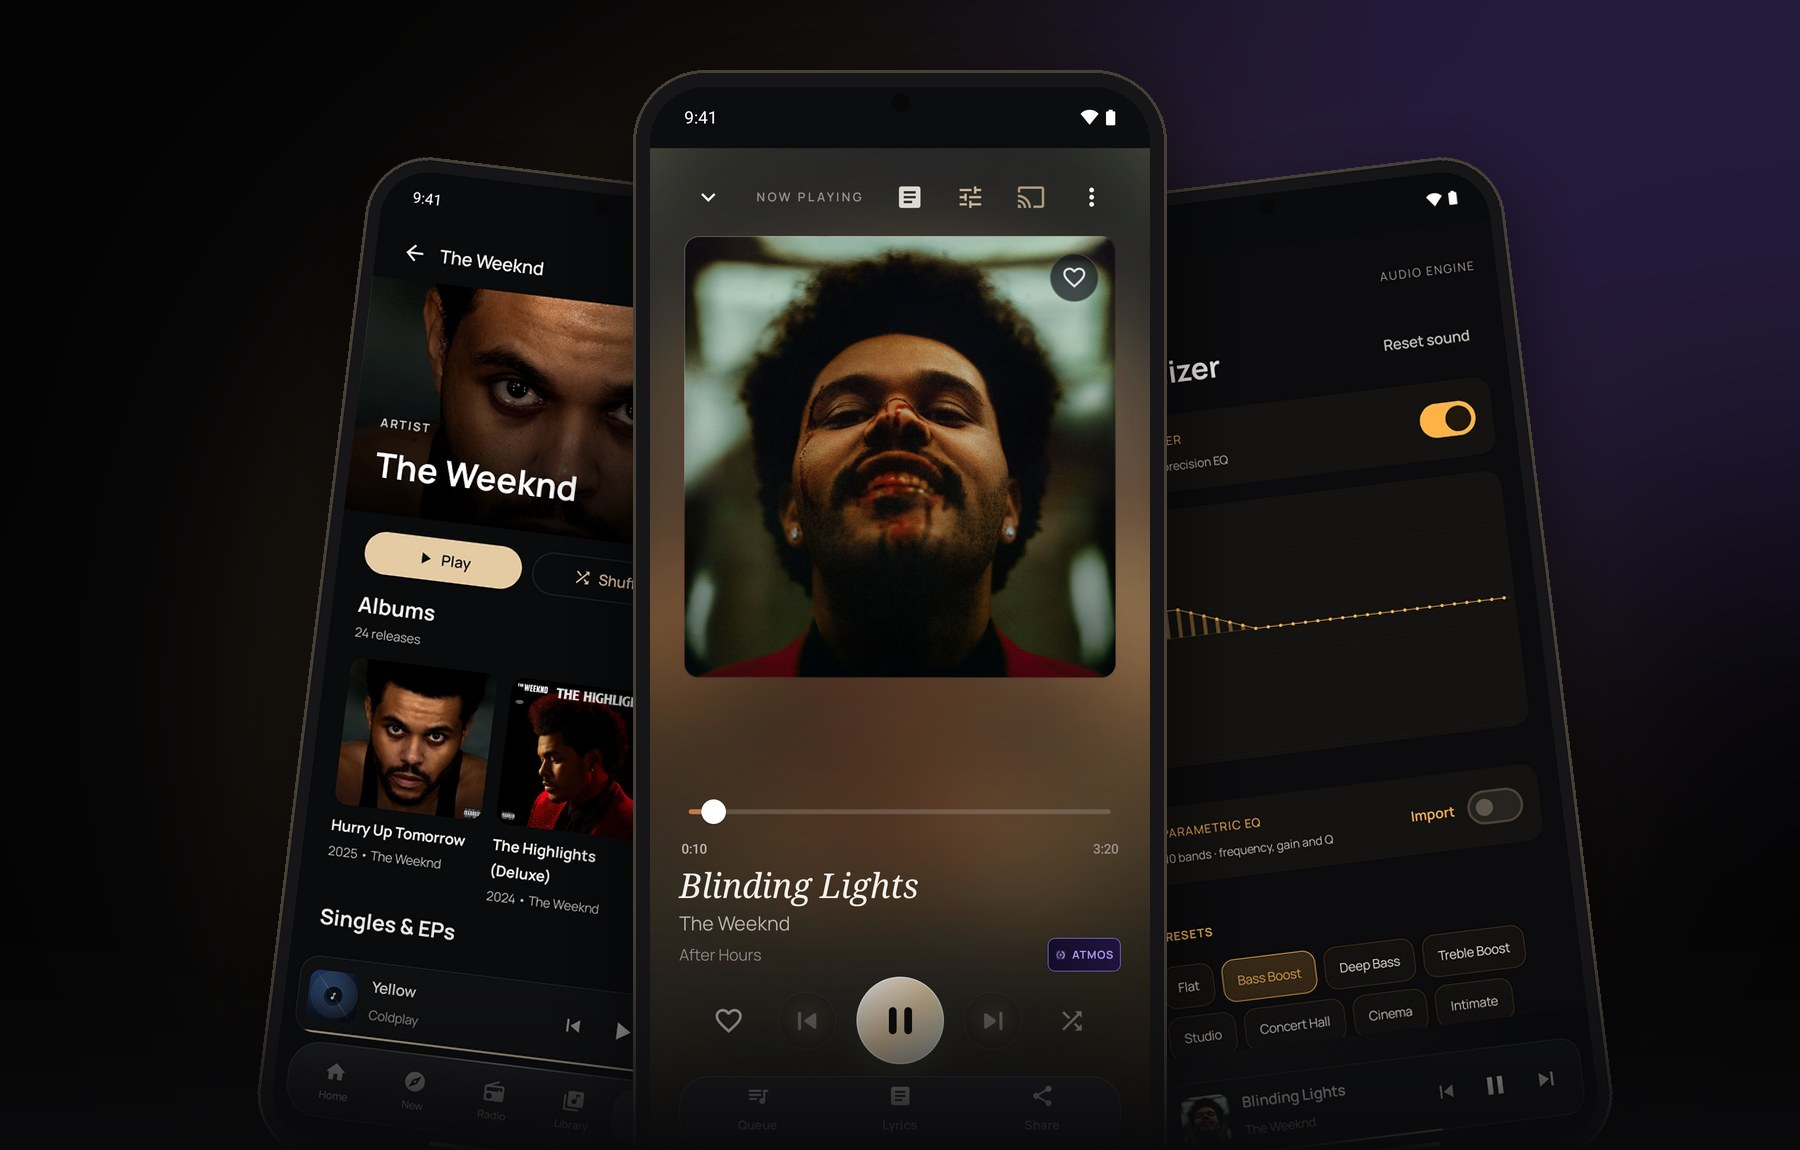
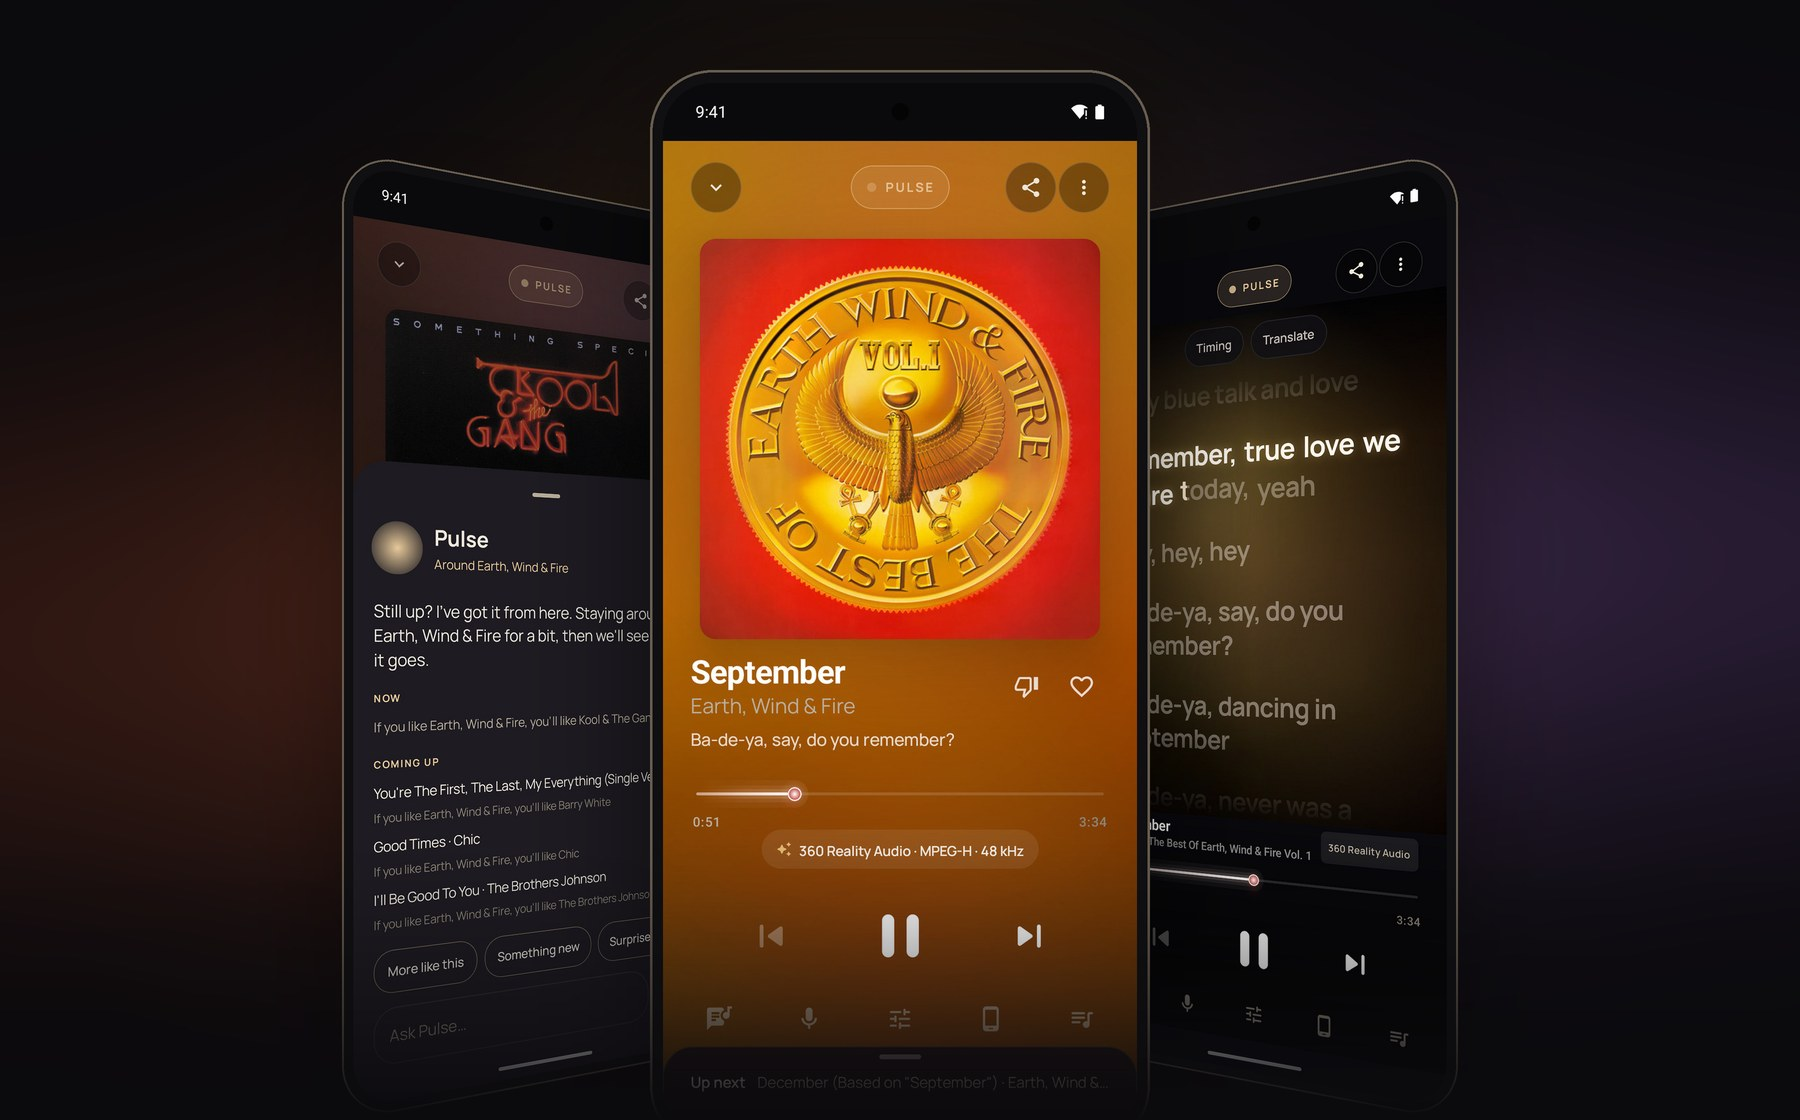
docs: new screenshots, players from every decade and the android tv app in the readme

diff --git a/README.md b/README.md
@@ -12,7 +12,7 @@
   <picture>
     <source media="(prefers-color-scheme: dark)" srcset="./assets/cta-dark.svg" />
     <source media="(prefers-color-scheme: light)" srcset="./assets/cta-light.svg" />
-    <img src="./assets/cta-dark.svg" width="100%" alt="The music player for people who care how it sounds. Get VANTA. Android 8.0 and up, phone, tablet and TV." />
+    <img src="./assets/cta-dark.svg" width="100%" alt="Lossless, Dolby Atmos, a live DJ, and players from every decade. Get VANTA. Android 8.0 and up, phone, tablet and TV." />
   </picture>
 </a>
 
@@ -20,9 +20,9 @@
 
 <br /><br />
 
-<img src="./assets/hero.jpg" width="100%" alt="VANTA on three phones: an artist page, Blinding Lights playing in Dolby Atmos, and the equalizer" />
+<img src="./assets/hero.jpg" width="100%" alt="VANTA on three phones: Pulse playing a set around Earth, Wind &amp; Fire, September playing in 360 Reality Audio, and its lyrics lighting up word by word" />
 
-<img src="./assets/stats.svg" width="100%" alt="24-bit lossless FLAC · Dolby Atmos and Sony 360 · 31-band EQ plus 10-band parametric · 147 radio genres · 0 ads or trackers" />
+<img src="./assets/stats.svg" width="100%" alt="24-bit lossless FLAC · Dolby Atmos and Sony 360 · 31-band EQ plus parametric · a live DJ that talks between songs · 0 ads or trackers" />
 
 <br />
 
@@ -35,7 +35,7 @@
 <a name="why-vanta"></a>
 <p align="center"><picture><source media="(prefers-color-scheme: dark)" srcset="./assets/h-why-dark.svg" /><source media="(prefers-color-scheme: light)" srcset="./assets/h-why-light.svg" /><img src="./assets/h-why-dark.svg" width="100%" alt="Why VANTA: made for listening" /></picture></p>
 
-<p align="center"><img src="./assets/features.svg" width="100%" alt="Hear all of it: lossless FLAC up to 24-bit, Dolby Atmos, Sony 360 Reality Audio and 5.1 / 7.1 surround. An EQ that does something: 31-band and 10-band parametric, with AutoEQ presets. Radio that stays on genre: 147 genres and subgenres, endless, learns from your thumbs. Bring your music, share it back: share a Spotify playlist in, and send friends links that open in VANTA." /></p>
+<p align="center"><img src="./assets/features.svg" width="100%" alt="A DJ that talks: Pulse plays a set around any artist, tells you why it picked each song, and talks between tracks in a voice that runs on your phone. Sing it yourself: turn the singer down, then out; lyrics light up word by word and translate on your phone. Hear all of it: lossless FLAC up to 24-bit, Dolby Atmos, Sony 360 Reality Audio and 5.1 / 7.1 surround. An EQ that does something: 31-band and 10-band parametric, with AutoEQ presets. Radio that stays on genre: 147 genres and subgenres, endless, learns from your thumbs. Bring your library: sign in to Spotify or Apple Music and pick your playlists and Liked Songs." /></p>
 
 <p align="center"><img src="./assets/no-ads.svg" width="100%" alt="No ads, no trackers, no subscription, just music" /></p>
 
@@ -44,7 +44,7 @@
 <a name="screenshots"></a>
 <p align="center"><picture><source media="(prefers-color-scheme: dark)" srcset="./assets/h-screens-dark.svg" /><source media="(prefers-color-scheme: light)" srcset="./assets/h-screens-light.svg" /><img src="./assets/h-screens-dark.svg" width="100%" alt="A look inside: every screen, built around the music" /></picture></p>
 
-<p align="center"><img src="./assets/gallery.png" width="100%" alt="Screenshots: Home, Artist pages, Now playing, Radio, New, 31-band EQ and Parametric EQ" /></p>
+<p align="center"><img src="./assets/gallery.jpg" width="100%" alt="Screenshots: Home, Search, Radio, Now playing, lyrics lit up word by word, Pulse, song credits and the 31-band equalizer" /></p>
 
 <br />
 
@@ -55,7 +55,13 @@
 
 <p align="center"><img src="./assets/widgets.png" width="100%" alt="VANTA widgets playing The Weeknd: a pocket player with a click wheel in silver, black, black with a red wheel, and white; a 1960s reel-to-reel deck; a 1970s turntable; a 1980s cassette deck; and a 1990s CD player" /></p>
 
-<p align="center"><sub>Pick your own colours and give each widget a name. The same players also run full screen in the app,<br />under <kbd>Settings</kbd> → <kbd>Player style</kbd>, where turning the pocket player's click wheel sets the volume.</sub></p>
+<p align="center"><sub>Pick your own colours and give each widget a name.</sub></p>
+
+<br />
+
+<p align="center"><img src="./assets/decades.jpg" width="100%" alt="The same players full screen in the app: a 1960s reel-to-reel, a 1970s turntable, a 1980s cassette deck, a 1990s CD player and a 2000s pocket player, all playing Get Down On It by Kool &amp; The Gang" /></p>
+
+<p align="center"><sub>The same players also run full screen in the app, under <kbd>Settings</kbd> → <kbd>Appearance</kbd> → <kbd>Player style</kbd>,<br />where turning the pocket player's click wheel sets the volume.</sub></p>
 
 <br />
 
@@ -71,13 +77,11 @@
 <a name="bring-your-music"></a>
 <p align="center"><picture><source media="(prefers-color-scheme: dark)" srcset="./assets/h-music-dark.svg" /><source media="(prefers-color-scheme: light)" srcset="./assets/h-music-light.svg" /><img src="./assets/h-music-dark.svg" width="100%" alt="Your music: bring it all with you" /></picture></p>
 
-<p align="center"><img src="./assets/flow.svg" width="100%" alt="In Spotify, share a playlist to VANTA. Preview its name and songs, then import it. It stays in sync when the Spotify playlist changes." /></p>
+<p align="center"><img src="./assets/flow.svg" width="100%" alt="Sign in to Spotify or Apple Music inside VANTA, pick your playlists and Liked Songs, and they come over as one library with each song once. Turn on Keep in sync and new songs come over while VANTA is open." /></p>
 
-<p align="center"><sub>In Spotify, tap <kbd>Share</kbd> on a playlist and pick <kbd>VANTA</kbd>, or paste the link into VANTA's Imports screen.</sub></p>
+<p align="center"><sub>Open <kbd>Library</kbd> → <kbd>Add music</kbd> and sign in on Spotify's or Apple Music's own page. VANTA only reads your library;<br />nothing is posted to your account. Your likes arrive as hearts, and a song in five playlists is still one song.</sub></p>
 
-<p align="center"><sub>Spotify only gives out the first 100 songs of a playlist through a shared link. For bigger playlists or your Liked Songs,<br />export them as a CSV and import that instead. There's no size limit that way, and each song keeps its exact recording.</sub></p>
-
-<p align="center"><img src="./assets/extras.svg" width="100%" alt="Also in VANTA: local music from one folder or the whole phone, offline playlists in lossless, search that handles typos and puts originals before covers, and synced lyrics." /></p>
+<p align="center"><img src="./assets/extras.svg" width="100%" alt="Also in VANTA: credits for every song, share the song you're playing as a picture in your player style, search that handles typos and puts originals before covers, local music from one folder or the whole phone, offline playlists in lossless, and quiet holiday touches you can turn off." /></p>
 
 <br />
 
@@ -86,8 +90,7 @@
 
 <p align="center"><sub><i>A layout built for the remote on Android TV, Android Auto with your whole library in the car,<br />and a landscape mode for car and RV dash mounts.</i></sub></p>
 
-<p align="center"><img src="./screenshots/vanta_tv_home.png" width="100%" alt="VANTA on Android TV" /></p>
-<p align="center"><img src="./screenshots/vanta_rv_player.png" width="100%" alt="VANTA in landscape on a dash mount" /></p>
+<p align="center"><img src="./assets/tv.jpg" width="100%" alt="VANTA on Android TV: the jukebox with a turning record, VU meters and the queue, plus the TV's Home, synced lyrics and Radio screens" /></p>
 
 <br />
 
@@ -151,7 +154,7 @@ No. This repo is for releases and news, and the app's source is private.
 
 <div align="center">
 
-<sub>VANTA is made by one person. If it's earned a spot on your phone, a coffee helps keep it going.</sub>
+<sub>VANTA is made by one person. If it's earned a spot on your phone, a coffee helps keep it going,<br />and a star on this page helps other people find it.</sub>
 
 <a href="https://ko-fi.com/drewk312"><img src="./assets/kofi.svg" width="240" alt="Support VANTA on Ko-fi" /></a>
 
